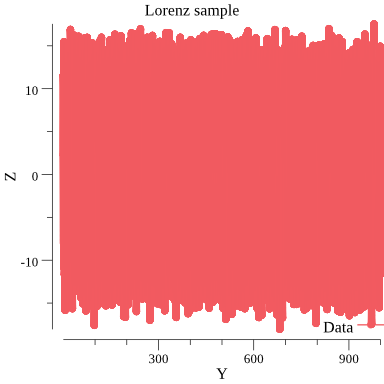
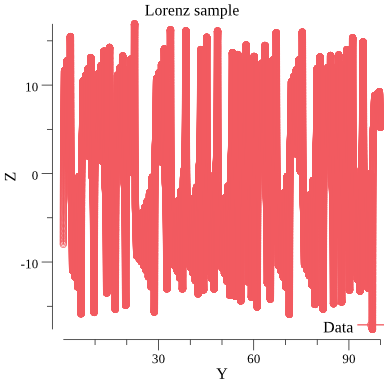
4th order derivative looks like it's working

diff --git a/sindy.go b/sindy.go
@@ -1,0 +1,41 @@
+package main
+
+import (
+	"fmt"
+)
+
+// param: svd V basis
+// returns: dx
+func derivateMatrix(data [][]float64, dt float64) [][]float64 {
+	// dV(i-2,k) = (1/(12*dt))*(-V(i+2,k)+8*V(i+1,k)-8*V(i-1,k)+V(i-2,k))
+	var dV [][]float64
+	for ridx, row := range data {
+		if ridx < 2 || ridx >= len(data)-2 {
+			continue
+		}
+		dV = append(dV, []float64{})
+		for cidx := range row {
+			deltaVal := (1 / (12 * dt)) * (-data[ridx+2][cidx] + 8*data[ridx+1][cidx] - 8 - data[ridx-1][cidx] + data[ridx-2][cidx])
+			dV[ridx-2] = append(dV[ridx-2], deltaVal)
+		}
+	}
+	fmt.Printf("rows in dV: %v\n", len(dV))
+	fmt.Printf("cols in dV: %v\n", len(dV[0]))
+	return dV
+}
+
+// params: x, n, polyorder and usesine
+// returns: Theta
+func poolData() {
+
+}
+
+// params: Theta, dx, lambda and n
+// returns: Xi
+func sparseRegress() {
+
+}
+
+// func stringifyXi() (solution string) {
+
+// }

diff --git a/main.go b/main.go
@@ -21,9 +21,10 @@ func main() {
 	}
 
 	const (
-		rowLength   = 10000
+		rowLength   = 1000
 		vectorCount = 3
 		rows        = 10
+		dt          = .01
 	)
 
 	var singleVarStream []float64
@@ -59,6 +60,9 @@ func main() {
 	fmt.Printf("s: %v\n", s)
 	// fmt.Printf("u: %v\n", u)
 	// fmt.Printf("%v\n", lorenzSVGData)
+
+	dV := derivateMatrix(lorenzSVGData, dt)
+	fmt.Print(len(dV))
 }
 
 // requirements:

diff --git a/lorenz.go b/lorenz.go
@@ -25,7 +25,7 @@ func lorenz(t float64, y []float64) []float64 {
 func createLorenzData() [][]float64 {
 	initCond := []float64{-8, 8, 27}
 
-	y := ode.RungeKutta4(.001, .001, 1000, initCond, lorenz)
+	y := ode.RungeKutta4(.001, .001, 100, initCond, lorenz)
 
 	// for _, val := range y {
 	// 	fmt.Println(val)
